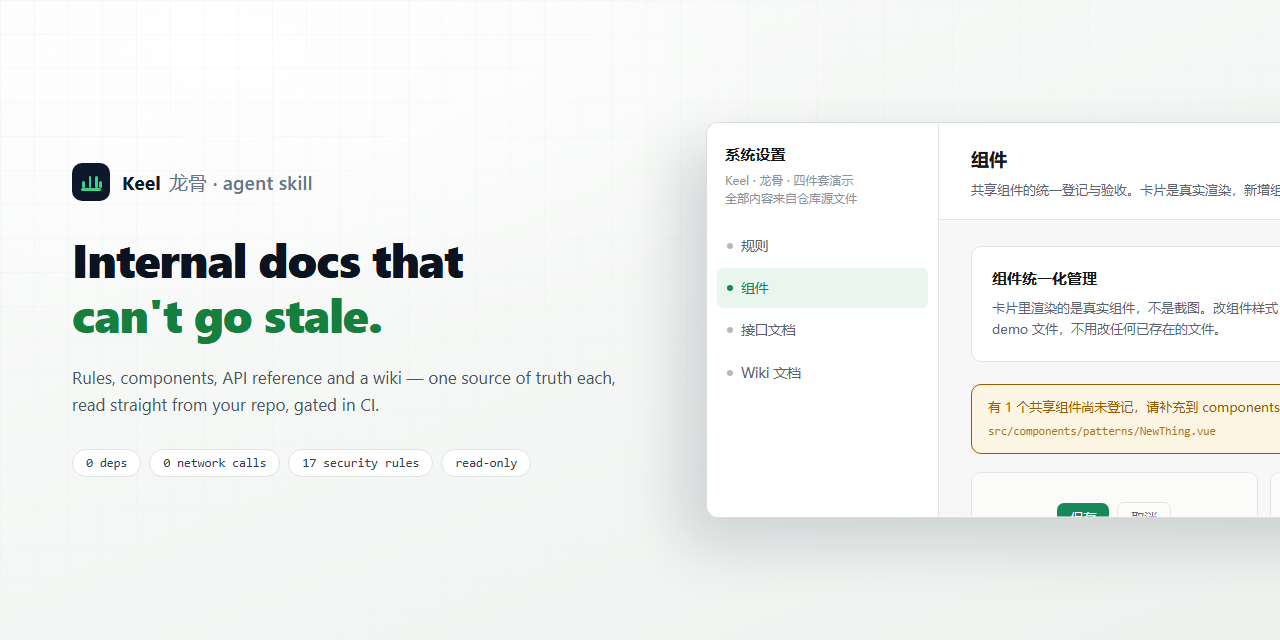
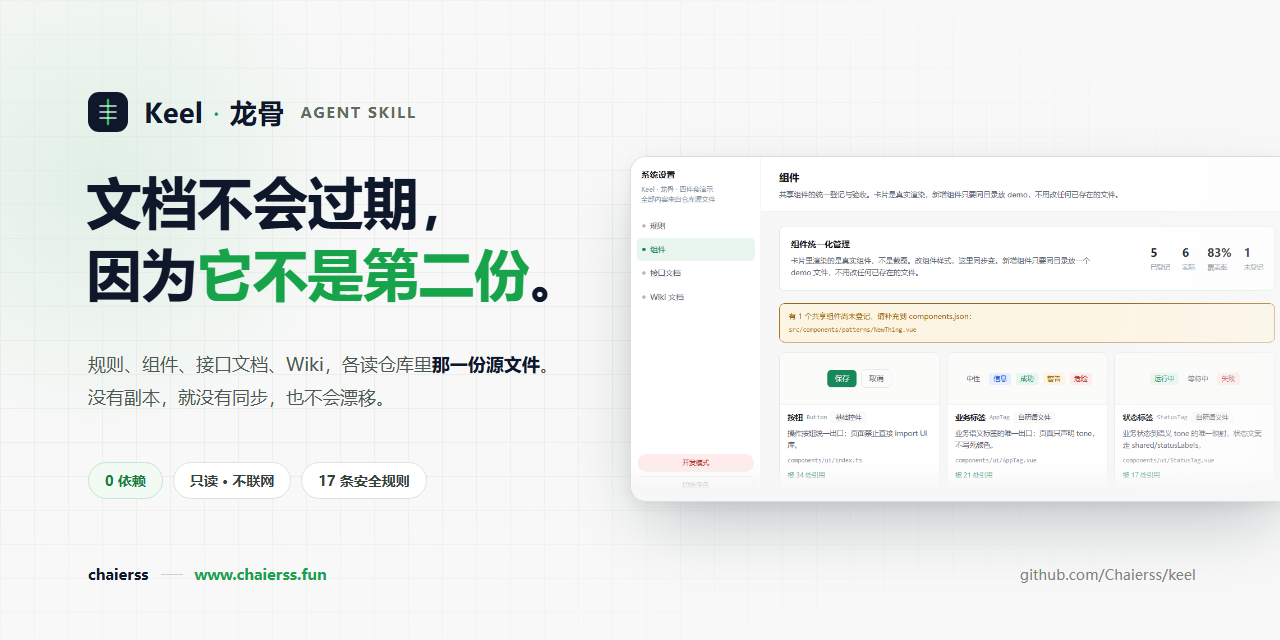
docs: 重做门面物料，修复发布文档断链
社交预览图 1088×546 → 1280×640，中文标语加产品截图与作者落款；原尺寸上传后会被平台二次裁切。新增 512×512 图标——它此前一直是「上架前需要单独设计」的空缺，等于发布流程少一个必交物料。

launch.md 与 publishing.md 里的社交图路径写成 assets/，实际在 docs/assets/，照文档操作会找不到图。另补 GitHub Pages 在线演示步骤：仓库里的 .html 点开只显示源码，30 秒看效果在 GitHub 上是断的。

diff --git a/docs/launch.md b/docs/launch.md
@@ -1,5 +1,7 @@
 # 发布文案包
 
+**作者：chaierss · 主页：[www.chaierss.fun](https://www.chaierss.fun) · 仓库：[github.com/Chaierss/keel](https://github.com/Chaierss/keel)**
+
 改完代码别急着发链接。**发布的第一屏是仓库卡片，不是 README**——很多人只看到标题 + 一句话 + 社交预览图就决定了要不要点。
 
 这份文件里所有文案都可以直接粘，不用改。原则只有三条：
@@ -15,6 +17,7 @@
 ```
 A settings console that can't go stale: rules, a component registry, API reference and a wiki, each read straight
 from the repo. Adds dev/prod visibility modes and a release gate. Zero dependencies, read-only, no network.
+By chaierss — https://www.chaierss.fun
 ```
 
 **Topics**（8–12 个，决定能不能被搜到）
@@ -26,7 +29,7 @@ design-system  component-registry  documentation  developer-tools  preflight  co
 
 **Social preview**
 
-上传 [`assets/social-preview.png`](assets/social-preview.png)（1280×640）。
+上传 [`docs/assets/social-preview.png`](docs/assets/social-preview.png)（1280×640，含 `chaierss / www.chaierss.fun` 署名）。
 设置位置：仓库 → Settings → General → Social preview → Upload image。
 
 > 这一步很多人跳过，结果是分享到任何地方都显示 GitHub 默认灰图。**它是所有转发场景的唯一视觉。**
@@ -34,7 +37,7 @@ design-system  component-registry  documentation  developer-tools  preflight  co
 **仓库简介（中文版，发国内平台时用）**
 
 ```
-一个不会过期的设置页：规则、组件注册表、接口文档、Wiki 各读一份仓库源文件；附开发/线上模式与上线前漏洞扫描门禁。零依赖、只读、不联网。
+一个不会过期的设置页：规则、组件注册表、接口文档、Wiki 各读一份仓库源文件；附开发/线上模式与上线前漏洞扫描门禁。零依赖、只读、不联网。作者 chaierss · chaierss.fun
 ```
 
 ## 二、WorkBuddy 市场卡片
@@ -83,7 +86,7 @@ Keel 换了个做法：让这四页直接读仓库里的那一份源文件。
 
 **服务类目**：开发工具 / 代码质量 / 文档与知识管理（选 1–3 个，别把 5 个都占满）
 
-**头像**：512×512。目前 `assets/` 下没有正式图标，上架前需要单独设计一张（不要用截图裁，小尺寸下会糊）。
+**头像**：直接用 [`docs/assets/icon-512.png`](docs/assets/icon-512.png)（512×512，深底龙骨符号，圆形裁切不会切到主体）。不要拿界面截图裁——小尺寸下会糊成一片。
 
 ## 三、Trae
 

diff --git a/docs/publishing.md b/docs/publishing.md
@@ -7,7 +7,7 @@
 ## 0. 发布前自检
 
 ```bash
-node tests/run-tests.mjs                 # 27 个用例全绿
+node tests/run-tests.mjs                 # 29 个用例全绿
 node tools/package-skill.mjs --out dist/keel.zip
 node skills/keel/scripts/preflight-scan.mjs --root . --dirs skills,tools,tests --strict
 git tag v1.0.0 && git push --tags
@@ -34,10 +34,21 @@ keel/
 
 - **About**：描述一行 + Topics（`agent-skill` `claude-code` `cursor` `trae` `workbuddy` `design-system` `code-quality`）。
   现成的文案在 [launch.md](launch.md)，直接粘。
-- **Social preview 图**：1280×640，用 [`assets/social-preview.png`](assets/social-preview.png)，上传位置在
+- **Social preview 图**：1280×640，用 [`docs/assets/social-preview.png`](docs/assets/social-preview.png)，上传位置在
   Settings → General → Social preview。**跳过这步，所有转发场景都显示 GitHub 默认灰图。**
 - **Releases**：每个 tag 附上 `dist/keel-<version>.zip`，让不会用命令行的人也能下载。
 - **README 首屏**：一句话定位 + "30 秒演示" + 安装命令。**不要以"背景与动机"开头**。
+
+### 在线演示（转化率最高的一步，5 分钟）
+
+仓库里的 `.html` 点开只显示源码，所以「30 秒看效果」在 GitHub 上是断的。开一次 Pages 就补上了，**不用复制任何文件**：
+
+1. Settings → Pages → Source 选 **Deploy from a branch**，分支 `main`、目录 `/ (root)`。
+2. 等 1–2 分钟，演示地址形如
+   `https://chaierss.github.io/keel/skills/keel/templates/preview/console-demo.html`。
+3. 把这个地址换进 README 的「看它长什么样」那一行。
+
+Pages 直接服务仓库根目录，所以这个路径不存在第二份副本——改了 `console-demo.html`，线上演示跟着变，仍然只有一份真相源。
 
 ## 2. `npx skills`（覆盖 79 个 agent）
 
@@ -69,7 +80,8 @@ npx skills add Chaierss/keel --list
 ### 要发布到市场（开放平台）
 
 1. 实名认证（个人或企业）。
-2. 建开发者主页：头像 512×512、昵称 2–20 字、简介 20–120 字。
+2. 建开发者主页：头像用 [`docs/assets/icon-512.png`](docs/assets/icon-512.png)（512×512）、昵称 2–20 字、简介 20–120 字，**个人网站填 `https://www.chaierss.fun`**（审核会看
+   主页是否真实存在，也是所有卡片上的署名落点）。
 3. 发布管理 → 新建 → 上传技能包 → 选服务类目（1–5 个）。
 4. 过三道审核：**安全扫描 → AI 审核 → 人工抽检**。
 
